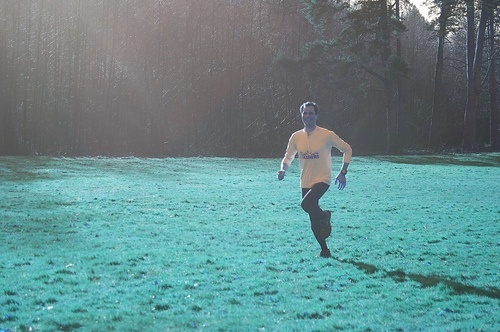
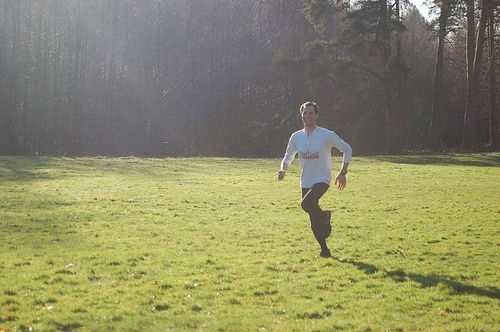
meed to optimize data feed

diff --git a/datasets/data.py b/datasets/data.py
@@ -1,3 +1,7 @@
+'''
+This may help: http://www.machinelearninguru.com/deep_learning/tensorflow/basics/tfrecord/tfrecord.html
+'''
+
 import tensorflow as tf
 from gluoncv import data, utils
 from matplotlib import pyplot as plt
@@ -12,6 +16,7 @@ print('Num of validation images:', len(val_dataset))
 
 train_image, train_label = train_dataset[52]
 print('Image size (height, width, RGB):', train_image.shape)
+print('Train label:', train_label)
 
 # tf_resize_img = tf.image.resize_images(
 #     tf.reshape(train_image.asnumpy(), [1, train_image.shape[0], train_image.shape[1], train_image.shape[2]]),
@@ -22,9 +27,30 @@ print('Image size (height, width, RGB):', train_image.shape)
 # cv2.imwrite('out_img.jpg', a)
 
 resized_img = cv2.resize(train_image.asnumpy(), (448, 448))
+resized_img = cv2.cvtColor(resized_img, cv2.COLOR_BGR2RGB)
+train_image = cv2.cvtColor(train_image.asnumpy(), cv2.COLOR_BGR2RGB)
 print(resized_img.shape)
 cv2.imwrite('out_img.jpg', resized_img)
-cv2.imwrite('ori.img.jpg', train_image.asnumpy())
+cv2.imwrite('ori.img.jpg', train_image)
+
+
+# def load_data():
+#       x_train = np.arrays()
+#       y_train = []
+#       x_test = []
+#       y_test = []
+#       for i in range(len(train_dataset)):
+#             train_image, train_label = train_dataset[i]
+#             x_train.append(train_image.asnumpy())
+#             y_train.append(train_label)
+#       for i in range(len(val_dataset)):
+#             test_image, test_label = val_dataset[i]
+#             x_test.append(test_image.asnumpy())
+#             y_test.append(test_label)
+#       print(x_train.shape, y_train.shape)
+#       return (x_train, y_train), (x_test, y_test)
+
+# _1, _2, _3, _4 = load_data()
 
 '''
 from gluoncv import data, utils
